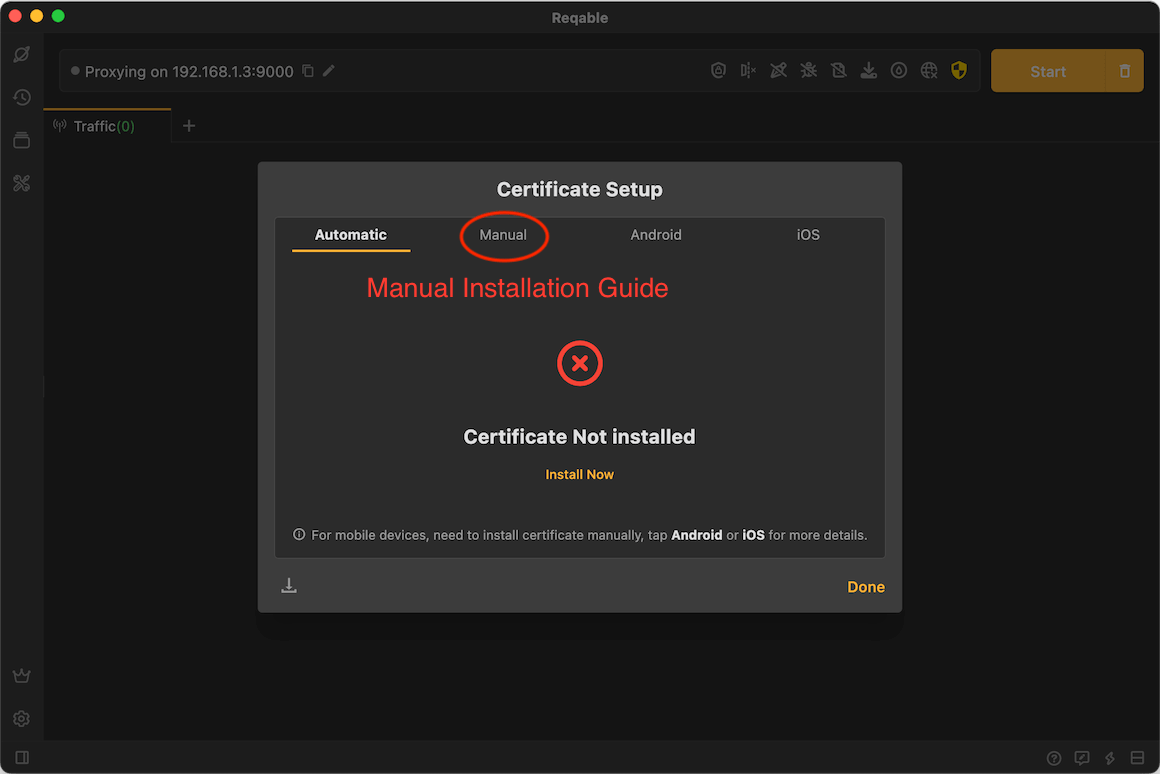
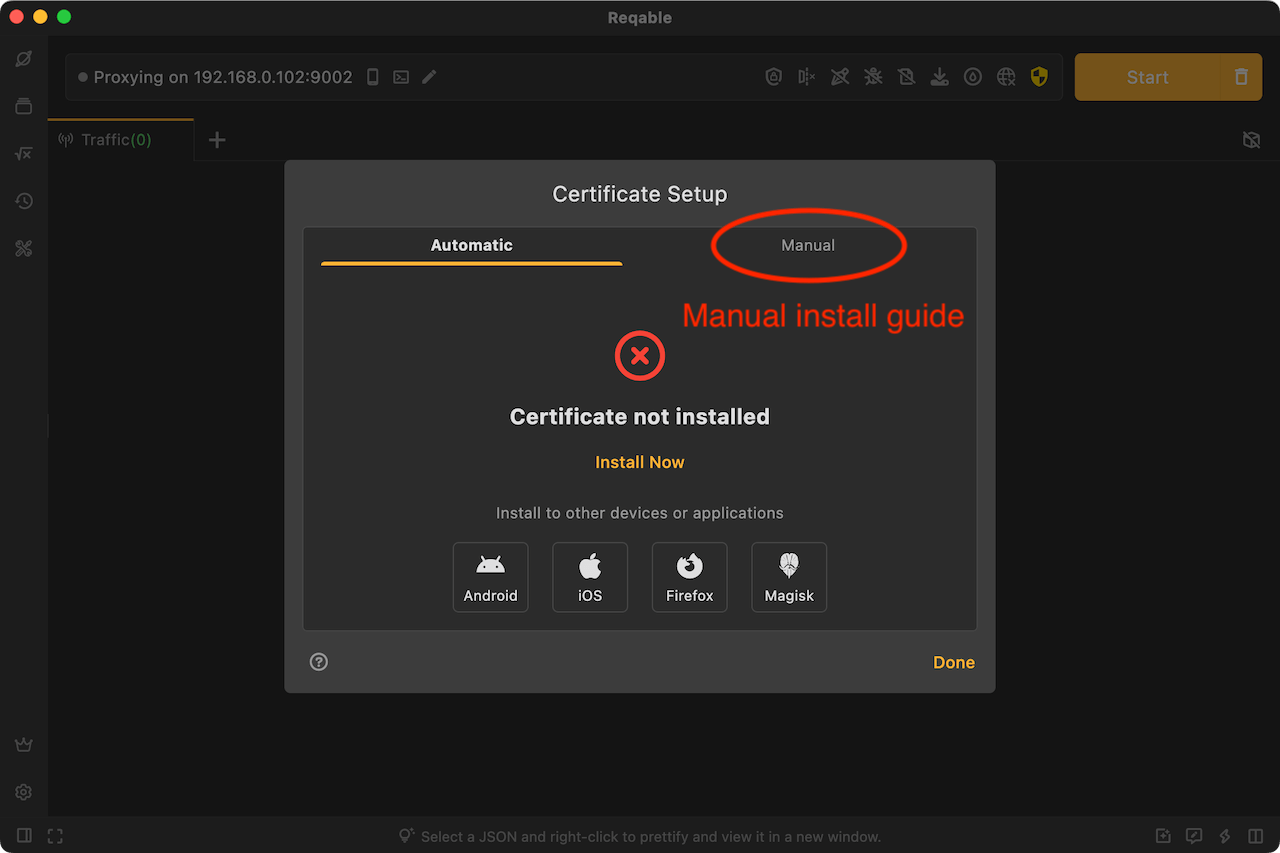
Update certificate installation docs

diff --git a/zh-CN/getting-started/installation/index.md b/zh-CN/getting-started/installation/index.md
@@ -1,12 +1,12 @@
 ---
 title: 安装证书
-description: 如何安装Reqable的CA根证书。
+description: 如何安装证书？
 sidebar_position: 0
 ---
 
 ## 为什么要安装证书？
 
-Reqable使用经典的中间人（MITM）技术分析HTTPS流量，当客户端与Reqable的代理服务器（下文简称`中间人`）进行通信时，中间人需要重签远程服务器的SSL证书。为了保证客户端与中间人成功进行SSL握手通信，需要将中间人的根证书（下文简称`CA根证书`）安装到客户端本地的证书管理中心。
+Reqable使用经典的中间人（MITM）技术分析HTTPS流量，当客户端与Reqable的代理服务器（下文简称`中间人`）进行通信时，中间人需要重签远程服务器的SSL证书。为了保证客户端与中间人成功进行SSL握手通信，需要将中间人的根证书（下文简称`CA根证书`）安装到客户端本地的证书管理中心。如果没有安装CA根证书，可能会出现`SSL握手失败`的错误。
 
 如果目标客户端是电脑端应用程序，CA根证书需要安装到电脑的证书管理中心；如果目标客户端是移动端App，CA根证书则需要安装到手机的证书管理中心。如果您没有流量分析的需求，可以忽略这一步。
 
@@ -46,41 +46,62 @@ CA根证书未安装或安装失败时，盾牌图标显示为黄色；安装成
 
 Reqable给每台设备生成的CA根证书均不相同。如果您希望所有设备共用同一个CA根证书，可以导出.p12格式证书后再在其他设备上导入。
 
-:::note
+:::info
 小技巧：移动端App初始化选择协同模式并扫码连接电脑后，会自动同步电脑端的CA根证书到当前移动端设备，此时两台设备的CA根证书为同一个。
 :::
 
 ### Android
 
-Android证书分为两种：用户证书和系统证书。用户证书位于`/data/misc/user/0/cacerts`目录，系统证书位于`/system/etc/security/cacerts`。其中，用户目录不需要额外权限即可更改，系统目录需要权限解锁`system`分区才可修改。您可以按照下面的场景选择任意一个合适的证书安装方案。
+Android证书分为两种：用户证书和系统证书。用户目录不需要权限即可添加和删除CA证书，系统目录需要Root权限才可以添加和删除CA证书。
 
-#### 1. Android 7.0以下设备
+Reqable的证书安装界面提供了Android证书的安装引导入口，如下图所示点击即可以进入。
 
-Android 7.0以下设备默认信任用户证书，直接将证书安装到用户目录即可：设置-> 安全 -> 加密与凭据 -> 安装证书 -> CA证书，选择导出的证书并安装（需要用户授权验证）。
+![](arts/installation_04.png)
 
-#### 2. Root设备并已解锁`system`分区
+Reqable要求用户事先已经在电脑上安装了ADB工具，Reqable会使用ADB工具检查连接到电脑的Android设备的证书安装状态，包括系统证书安装状态和用户证书安装状态。
 
-直接使用`adb`命令推送证书到系统证书目录。此证书为`hash.0`格式，具体hash值请参考App内的说明。
+![](arts/installation_05.png)
 
-```shell
-adb root
-# restarting adbd as root
-adb shell avbctl disable-verification
-adb remount
-adb push 364618e0.0 /system/etc/security/cacerts/364618e0.0
-```
-
-:::caution
-由于Android 14证书迁移到`apex`模块，故此方案仅适合Android 13及以下版本。
+:::info 关于ADB工具
+Android Debug Bridge（简称ADB）是Google提供的Android设备连接工具，可以从Android开发者官网[下载](https://developer.android.com/tools/adb)，下载并安装完成后，配置好`ANDROID_HOME`和`PATH`环境变量，重启Reqable即可。
 :::
 
-#### 3. Android项目配置信任路径
+#### 系统证书
 
-如果您是Android开发者并拥有项目的修改权限。您可以直接将证书安装到用户目录，然后在项目中配置信任用户目录证书即可。
+无论设备是否Root，Reqable都可以检测系统证书的安装状态。但是，只有Root的设备Reqable才可以一键安装证书（支持Android 5.0 - 15系统）。
 
-第一步：手机上安装证书：设置-> 安全 -> 加密与凭据 -> 安装证书 -> CA证书，选择导出的证书并安装（需要用户授权验证）。
+![](arts/installation_06.png)
 
-第二步：创建 res/xml/network_security_config.xml
+如果已经安装了系统证书，可以跳过下一步用户证书的安装。
+
+#### 用户证书
+
+用户证书需要用户手动进行安装，在手机端打开设置进行如下步骤的操作：
+
+设置-> 安全 -> 加密与凭据 -> 安装证书 -> CA证书，选择导出的证书并安装（需要用户授权验证）。
+
+注意，Reqable无法检测到非Root设备的用户证书安装状态，会一直显示`未知证书安装状态`。
+
+在Android 7.0及以上版本的设备上，安装完用户证书后还需要开发者在项目中进行额外配置来信任用户证书。
+
+::: caution
+这种方式只对Android Native应用有效，基于Flutter的应用无效。
+:::
+
+方式一：build.gradle中配置依赖（推荐）
+
+```gradle
+dependencies {
+  debugImplementation("com.reqable.android:user-certificate-trust:1.0.0")
+}
+```
+
+按照以上配置，Debug包将自动集成网络安全配置文件，如果无法连接到Maven中央仓库，请按照方式二的指引手动创建并配置网络安全文件。
+
+方式二：手动创建网络安全文件
+
+新建文件 res/xml/network_security_config.xml
+
 ```xml
 <?xml version="1.0" encoding="utf-8"?>
 <network-security-config>
@@ -93,7 +114,8 @@ adb push 364618e0.0 /system/etc/security/cacerts/364618e0.0
 </network-security-config>
 ```
 
-第三步：配置 AndroidManifest.xml
+配置到 AndroidManifest.xml
+
 ```xml
 <?xml version="1.0" encoding="utf-8"?>
 <manifest>
@@ -103,40 +125,29 @@ adb push 364618e0.0 /system/etc/security/cacerts/364618e0.0
 </manifest>
 ```
 
-请在发行版本中移除此配置，更多有关网络安全配置文件资料，请参考：[Android开发文档](https://developer.android.google.cn/training/articles/security-config)。
+注意⚠：请在发行版本中移除此配置，更多有关网络安全配置文件资料，请参考：[Android开发文档](https://developer.android.google.cn/training/articles/security-config)。
 
-#### 4. Android项目降低`targetSdkVersion`
+#### 浏览器
 
-如果您是Android开发者并拥有项目的修改权限。您可以直接将证书安装到用户目录，然后将项目的`targetSdkVersion`降低至23或以下。
+在Android设备上，安装完证书并不意味着可以被浏览器信任，即使是安装到系统证书目录。
 
-第一步：手机上安装证书：设置-> 安全 -> 加密与凭据 -> 安装证书 -> CA证书，选择导出的证书并安装（需要用户授权验证）。
+##### Chrome浏览器
 
-第二步：降低`targetSdkVersion`。
-```gradle
-android {
-  defaultConfig {
-    ...
-    targetSdkVersion 23
-    ...
-  }
-}
-```
+Chrome浏览器对证书的信任策略一直在变化，比如最新版本的Chrome浏览器会忽略安装到Android系统证书目录的自签CA证书，如果需要对Chrome浏览器进行抓包，请按照下面的方式进行处理：
 
-#### 5. Magisk模块安装到系统目录
+- 如果是高版本Chrome浏览器，需要将CA证书安装到用户证书目录；
+- 如果是低版本的Chrome浏览器，需要将CA证书安装到系统证书目录。
 
-Reqable应用内提供了Magisk模块安装包，可以一键安装证书到系统目录。支持Magisk和KernelSU，支持Android 5以上任何版本。
+如果不确定选用那种方式，可以分别尝试下。
 
-:::caution
-KernelSU刷入模块后，可能需要需要授予Reqable Root权限，否则证书无法生效。
-:::
+##### Firefox浏览器
 
-#### 6. Chrome内核浏览器
+Firefox浏览器使用内置的CA证书验证机制，无论Reqable的CA证书是安装到系统目录还是用户目录都不会被信任，需要用户进行额外的操作。
 
-最新版本Chrome内核浏览器对系统目录证书启用了CT日志验证，即使证书已经成功安装到系统目录，仍然会出现`NET:ERR_CERTIFICATE_TRANSPARENCY_REQUIRED`到问题。遇到这种问题，请将证书从系统目录中移除并安装到用户目录。Chrome内核浏览器默认会信任用户证书并不会进行CT日志验证。
+- Firefox设置 -> 关于Firefox -> 点击顶部Logo 5下启用调试菜单。
+- Firefox设置 -> Secret Settings -> 启用 Use third party CA certificates。
 
-#### 7. Flutter应用
-
-Flutter框架开发的Android应用程序只信任系统目录证书，不会信任用户目录证书，这个是写死在框架里面的。无论是配置`network_security_config.xml`还是降低`targetSdkVersion`均不会生效。
+按照上面步骤操作完成后，将CA证书安装到用户目录即可生效。
 
 ### iOS
 
@@ -150,12 +161,14 @@ Flutter框架开发的Android应用程序只信任系统目录证书，不会信
 
 第三步：信任证书，设置 -> 通用 -> 关于 -> 证书信任设置 -> 打开开关。
 
-### 特殊情况
+## 特殊问题
 
 在一些特殊情况下，即使已经安装了证书可能也无法正常解析HTTPS流量，常见的有下面这些情况。
 
 - 网络请求启用了固定证书，要求服务器返回指定签发的证书。
-
 - 网络请求启用了双向验证，要求客户端也要上传证书给服务器进行验证。
-
 - 应用使用了内置的CA证书验证，而不是使用系统的CA证书。
+
+
+
+

diff --git a/en-US/getting-started/installation/index.md b/en-US/getting-started/installation/index.md
@@ -6,7 +6,7 @@ sidebar_position: 0
 
 ## Why should install a certificate?
 
-Reqable uses the classic man-in-the-middle (MITM) technique to analyze HTTPS traffic. When the client communicates with Reqable proxy server (hereinafter referred to as `MITM`), the MITM needs to re-sign the SSL certificate of the remote server. In order to ensure the successful SSL handshake communication between the client and the MITM, it is necessary to install the MITM's root certificate (hereinafter referred to as `CA Certificate`) to the client's local certificate management center.
+Reqable uses the classic man-in-the-middle (MITM) technique to analyze HTTPS traffic. When the client communicates with Reqable proxy server (hereinafter referred to as `MITM`), the MITM needs to re-sign the SSL certificate of the remote server. In order to ensure the successful SSL handshake communication between the client and the MITM, it is necessary to install the MITM's root certificate (hereinafter referred to as `CA Certificate`) to the client's local certificate management center. If the CA Certificate did't installed in your device, you might see the error `SSL Handshake Error`.
 
 If the target client is a PC application, the CA Certificate needs to be installed in the certificate management center of the PC; if the target client is a mobile application, the CA certificate needs to be installed in the certificate management center of the mobile phone. If you do not need traffic analysis, you can ignore this step.
 
@@ -46,7 +46,7 @@ If you use the desktop app to analyze traffic, please install the CA root certif
 
 The CA root certificate generated by Reqable for each device is different. If you want all devices to share the same CA root certificate, you can export the certificate in .p12 format and then import it on other devices.
 
-:::note Tips
+:::info Tips
 After the mobile App is initialized and selects the collaborative mode and scans the qrcode to connect to the computer, the CA root certificate on the computer will be automatically synchronized to the current mobile device. At this time, the CA root certificate of the two devices is the same.
 :::
 
